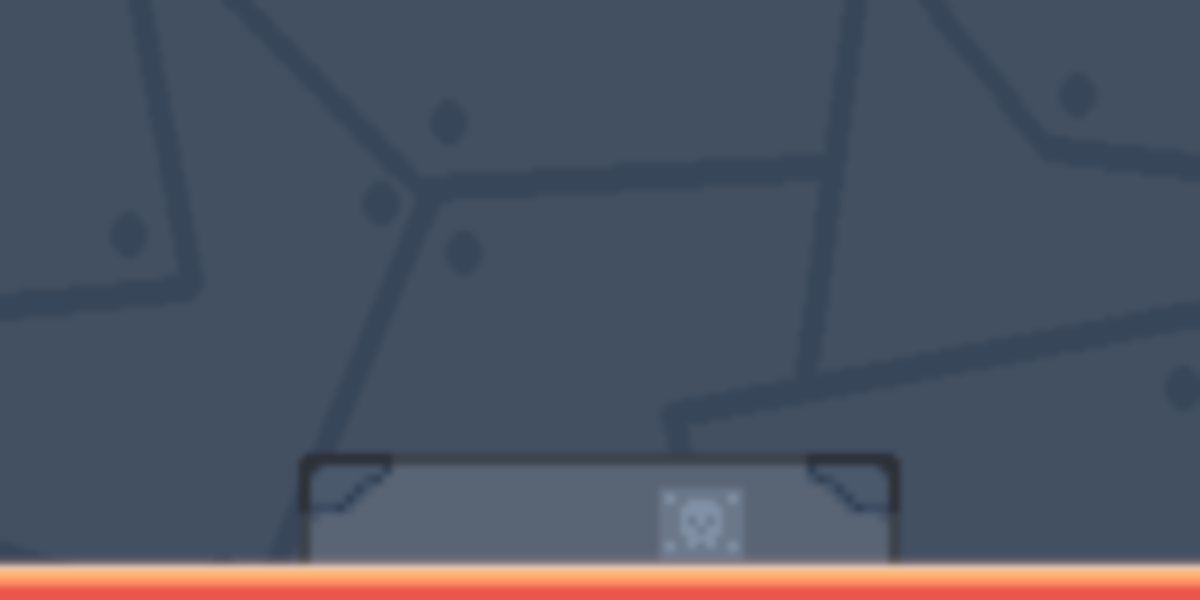
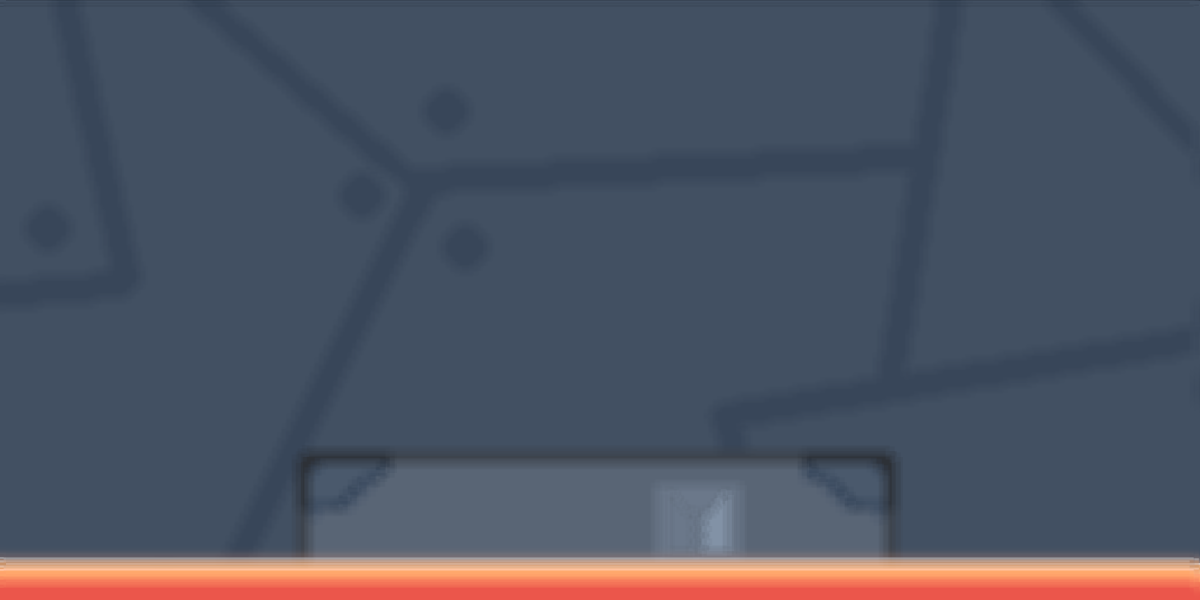
add rocket and laser attack

Changed region(s): [[0.0, 0.84, 1.0, 0.99]]

diff --git a/src/main.cpp b/src/main.cpp
@@ -5,6 +5,7 @@
 #include <anim.hpp>
 #include <bind.hpp>
 #include <save.hpp>
+#include <attack.hpp>
 
 using namespace std;
 
@@ -70,6 +71,24 @@ int main()
 
     frect button_pause(10, 10, 60, 60);
     texture t_psbtn(myapp.Render, path+"image/btnPause.png");
+    
+    frect scope(player.getX()-25, player.getY()-25, player.getWidth()+50, player.getHeight()+50);
+    texture t_scp(myapp.Render, path+"image/scope.png");
+    SDL_FPoint point_scp = {
+        static_cast<float>( scope.getWidth()/2 ),
+        static_cast<float>( scope.getHeight()/2 )
+    };
+
+    frect rocket(0, -100, 48, 96);
+    texture t_rkt(myapp.Render, path+"image/rocket.png");
+
+    frect laser_left(0, 0, 0, 0);
+    frect laser_right(0, 0, 0, 0);
+    texture t_ls(myapp.Render, path+"image/laser.png");
+
+    frect warning_left(0, 0, 60, 60);
+    frect warning_right(0, 0, 60, 60);
+    texture t_wrn(myapp.Render, path+"image/warning.png");
 
     int x_pf = (myapp.window.width - platform.getWidth()) / 2;
     int y_pf = (myapp.window.height - platform.getHeight());
@@ -108,12 +127,27 @@ int main()
     int y_rsbtn = (myapp.window.height - button_resume.getHeight()) / 2 - 50;
     button_resume.setPosition(x_rsbtn, y_rsbtn);
     button_quit.setPosition(x_rsbtn, y_rsbtn + 100);
+    
+    int x_rkt = (myapp.window.width - rocket.getWidth()) / 2;
+    rocket.setX(x_rkt);
+
+    int h_ls = (myapp.window.height - platform.getHeight());
+    laser_left.setX(x_pf + 10);
+    laser_right.setX((x_pf + platform.getWidth() - laser_right.getWidth()) - 25);
+
+    int y_wrn = (myapp.window.height - platform.getHeight() - warning_left.getHeight());
+    warning_left.setX(x_pf - 15);
+    warning_right.setX(x_pf + platform.getWidth() - laser_right.getWidth() - 40);
+    warning_left.setY(y_wrn);
+    warning_right.setY(y_wrn);
 
     load(max_count);
 
     bind_movement(myapp);
     bind_button(myapp, button, button_resume, button_quit, button_pause, button_github, player, x_pl, y_pl);
     bind_menu(myapp);
+
+    init_attack_timer();
 
     while (!myapp.quit) {
         handleEvent(myapp);
@@ -125,6 +159,8 @@ int main()
             button.fillTexture(myapp.Render, button.onHover() ? &t_hvbtn : &t_btn);
             button_github.fillTexture(myapp.Render, button_github.onHover() ? &t_hvghbtn : &t_ghbtn);
         } else {
+            scope.setFrect(player.getX()-25, player.getY()-25, player.getWidth()+50, player.getHeight()+50);
+
             myapp.fill(0, 0, 0);
             background.fillTexture(myapp.Render, &t_bg);
             counter.fillText(myapp.Render, &t_ct);
@@ -138,6 +174,18 @@ int main()
                 moved_left ? -5 : moved_right ? 5 : degr, 
                 facing_right ? SDL_FLIP_NONE : SDL_FLIP_HORIZONTAL, point_pl
             );
+            rocket.fillTexture(myapp.Render, &t_rkt);
+            if (attack == "laser"){
+                laser_left.fillTexture(myapp.Render, &t_ls);
+                laser_right.fillTexture(myapp.Render, &t_ls);
+                warning_left.fillTexture(myapp.Render, &t_wrn);
+                warning_right.fillTexture(myapp.Render, &t_wrn);
+            }
+
+            if (attack == "rocket" && attack_counter < 400){
+                scope.fillTexture(myapp.Render, &t_scp, scp_degr, SDL_FLIP_NONE, point_scp);
+                rocket.setX(player.getX());
+            }
 
             if (!pause){
                 if (moved_left) 
@@ -145,12 +193,26 @@ int main()
                 if (moved_right) 
                     player.addX(10);
 
+                random_attack(rocket, x_rkt, laser_left, laser_right, warning_left, warning_right, x_pf, platform.getWidth(), y_wrn, h_ls, (x_pf + platform.getWidth() - laser_right.getWidth()) - 10);
+
                 handle_jump(player, platform);
                 handle_dash(myapp, player);
                 
                 anim_die(player, x_pl, y_pl);
+                if (die) {
+                    laser_left.setX(x_pf + 10);
+                    laser_right.setX((x_pf + platform.getWidth() - laser_right.getWidth()) - 10);
+                    laser_left.setHeight(0);
+                    laser_right.setHeight(0);
+                }
 
-                if (player.onTouch(lava) || check_border(player, myapp)) 
+                if (
+                    player.onTouch(lava) 
+                    || check_border(player, myapp)
+                    || player.onTouch(rocket)
+                    || player.onTouch(laser_left)
+                    || player.onTouch(laser_right)
+                   ) 
                     die = true;
 
                 cout<<"Player Y: "<<player.getY()<<endl;
@@ -170,6 +232,8 @@ int main()
                 string max_count_str = to_string(max_count);
                 max_counter.setWidth(max_count_str.length() * 25);
                 t_mct.setText(max_count_str);
+
+                scp_degr += 6;
             } else {
                 pause_background.fillTexture(myapp.Render, &t_pbg);
                 button_resume.fillTexture(myapp.Render, button_resume.onHover() ? &t_hvrsbtn : &t_rsbtn);

diff --git a/header/attack.hpp b/header/attack.hpp
@@ -1,0 +1,110 @@
+#ifndef ATTACK
+#define ATTACK
+
+#include <cstdlib>
+#include <ctime>
+#include <var.hpp>
+
+void init_attack_timer() {
+    srand(static_cast<unsigned>(time(0)));
+    attack_timer = rand() % 12 + 5; // Увеличен диапазон для более редких атак
+    attack_elapsed = 0;
+}
+
+void rocket(frect &rocket, int x) {
+    cout << attack_counter << endl;
+    if (attack_counter < 800) {
+        attack_counter += 2;
+        if (attack_counter > 400)
+            rocket.addY(15);
+    } else {
+        attack_counter = 0;
+        attack = "";
+    }
+}
+
+void laser(frect &laser_left, frect &laser_right, frect &warning_left, frect &warning_right, int platform_x, int platform_width, int warning_y, int laser_h, int right_start) {
+    if (attack_counter < 75) {
+        warning_left.setY(warning_y);
+        warning_right.setY(warning_y);
+        attack_counter += 1;
+    } else if (attack_counter < 150) {
+        warning_left.setY(-100);
+        warning_right.setY(-100);
+        if (laser_left.getWidth() < 20) laser_left.addWidth(1);
+        if (laser_right.getWidth() < 20) laser_right.addWidth(1);
+        laser_left.setHeight(laser_h);
+        laser_right.setHeight(laser_h);
+        attack_counter += 1;
+    } else if (attack_counter < 300) {
+        int center_x = platform_x + platform_width / 2;
+        if (laser_left.getX() < center_x - laser_left.getWidth() - 10) {
+            laser_left.addX(2);
+        }
+        if (laser_right.getX() > center_x + 10) {
+            laser_right.subX(2);
+        }
+        attack_counter += 2;
+    } else if (attack_counter < 375) {
+        attack_counter += 1;
+    } else if (attack_counter < 600) {
+        if (laser_right.getX() < platform_x + platform_width - 30) {
+            laser_left.addX(2);
+            laser_right.addX(2);
+        } else {
+            attack_counter = 601;
+        }
+    } else if (attack_counter < 900) {
+        if (laser_left.getX() > platform_x + 10) {
+            laser_left.subX(2);
+            laser_right.subX(2);
+        } else {
+            attack_counter = 901;
+        }
+    } else if (attack_counter < 1100) {
+        int left_start = platform_x + 10;
+
+        if (laser_left.getX() > left_start) {
+            laser_left.subX(2);
+        }
+        if (laser_right.getX() < right_start) {
+            laser_right.addX(4);
+        }
+        attack_counter += 1;
+    } else if (attack_counter < 1200) {
+        if (laser_left.getWidth() > 0) laser_left.subWidth(1);
+        if (laser_right.getWidth() > 0) laser_right.subWidth(1);
+        attack_counter += 1;
+    } else {
+        attack_counter = 0;
+        attack = "";
+        laser_left.setX(platform_x + 10);
+        laser_right.setX(platform_x + platform_width - laser_right.getWidth() - 10);
+        laser_left.setSize(0, 0);
+        laser_right.setSize(0, 0);
+    }
+}
+
+void random_attack(frect &frocket, int x_rkt, frect &laser_left, frect &laser_right, frect &warning_left, frect &warning_right, int platform_x, int platform_width, int warning_y, int laser_h, int right_start) {
+    if (attack == "rocket") {
+        rocket(frocket, x_rkt);
+    } else if (attack == "laser") {
+        laser(laser_left, laser_right, warning_left, warning_right, platform_x, platform_width, warning_y, laser_h, right_start);
+    }
+
+    attack_elapsed++;
+    if (attack_elapsed >= attack_timer * 20) {
+        if (rand() % 4 == 0 && attack != "rocket") {
+            attack = "laser"; // change to rocket
+            frocket.setPosition(x_rkt, -100);
+            cout << "attack rocket" << endl;
+        } else if (rand() % 4 == 0 && attack != "laser") {
+            attack = "laser";
+            cout << "attack laser" << endl;
+        }
+        attack_elapsed = 0;
+        attack_timer = rand() % 12 + 5;
+    }
+}
+
+#endif

diff --git a/header/var.hpp b/header/var.hpp
@@ -28,13 +28,18 @@ int dash_target_x = 0;
 int current_count = 0;
 int max_count = 0;
 int death_count = 0;
+int attack_timer = 0;
+int attack_elapsed = 0;
+int attack_counter = 0;
 
 float dash_speed = 0.0f;
 float jump_speed = 0;
 const float gravity = 10;
 const float jump_force = -30;
 double degr = 0;
+double scp_degr = 0;
 
+string attack = "";
 string path = disk_path()+"\\";
 string name = "СppDodge";
 

diff --git a/header/bind.hpp b/header/bind.hpp
@@ -34,6 +34,8 @@ void bind_button(app &app, frect &play_button, frect &resume_button, frect &quit
         if (!game && play_button.onHover()){
             game = true;
             current_count = -1;
+            attack = "";
+            attack_counter = 0;
             player.setPosition(x, y);
         }
         else if (pause && resume_button.onHover()) {

diff --git a/header/anim.hpp b/header/anim.hpp
@@ -28,6 +28,8 @@ void anim_die(frect &player, int x, int y){
             player.setPosition(x, y);
             current_count = 0;
             death_count++;
+            attack = "";
+            attack_counter = 0;
         }
     }
 }
